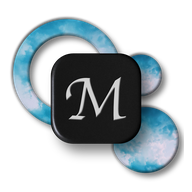
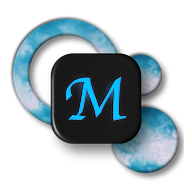
feat: implement touch scroll locking for PWA and enhance CSS for better mobile experience

Changed region(s): [[0.3438, 0.375, 0.6562, 0.625]]

diff --git a/app.js b/app.js
@@ -1358,6 +1358,31 @@
         }
 
         /* ============================================================
+           [EN] Lock body scroll on touch devices (PWA)
+               Allow scroll only inside scrollable containers
+           ============================================================ */
+        document.addEventListener('touchmove', function(e) {
+            /* [EN] Find the closest scrollable ancestor, if any */
+            var el = e.target;
+            while (el && el !== document.body) {
+                var style = window.getComputedStyle(el);
+                var overflowY = style.overflowY;
+                var isScrollable = (
+                    overflowY === 'auto' ||
+                    overflowY === 'scroll' ||
+                    overflowY === 'overlay'
+                );
+                if (isScrollable && el.scrollHeight > el.clientHeight) {
+                    /* [EN] Container is scrollable — let the event through */
+                    return;
+                }
+                el = el.parentElement;
+            }
+            /* [EN] No scrollable container found — block the scroll */
+            e.preventDefault();
+        }, { passive: false });
+
+        /* ============================================================
            [EN] Handle canvas resize for HiDPI
            ============================================================ */
         function handleCanvasResize() {

diff --git a/styles.css b/styles.css
@@ -41,7 +41,9 @@
             -webkit-text-size-adjust: 100%;
             text-size-adjust: 100%;
             -webkit-tap-highlight-color: transparent;
+            /* [EN] Lock html scroll — all scroll goes through <main> or drawer */
             height: 100%;
+            overflow: hidden;
         }
 
         body {
@@ -49,8 +51,10 @@
             background: var(--bg);
             color: var(--text);
             line-height: 1.5;
+            /* [EN] Fixed height so flex children can overflow properly */
+            height: 100%;
+            height: 100dvh;
             min-height: 100%;
-            min-height: 100dvh;
             display: flex;
             flex-direction: column;
             padding-bottom: calc(16px + var(--safe-bottom));
@@ -58,6 +62,10 @@
             -moz-osx-font-smoothing: grayscale;
             /* [EN] Prevent pull-to-refresh on PWA */
             overscroll-behavior-y: contain;
+            /* [EN] BLOCK ZOOM & ACCIDENTAL SCROLL — PWA on mobile */
+            overflow: hidden;
+            touch-action: manipulation;
+            -webkit-overflow-scrolling: auto;
         }
 
         /* ============================================================
@@ -213,10 +221,18 @@
            ============================================================ */
         .panels {
             flex: 1;
+            /* [EN] Crucial: allow flex child to shrink below content size for overflow to activate */
+            min-height: 0;
             padding: 12px;
             max-width: 600px;
             width: 100%;
             margin: 0 auto;
+            /* [EN] Allow vertical scroll inside panels (long engineering form) */
+            overflow-y: auto;
+            overscroll-behavior-y: contain;
+            -webkit-overflow-scrolling: touch;
+            /* [EN] Override body's touch-action:manipulation to allow vertical pan */
+            touch-action: pan-y;
         }
         .panel {
             display: none;
@@ -490,6 +506,8 @@
             overflow-y: auto;
             -webkit-overflow-scrolling: touch;
             overscroll-behavior: contain;
+            /* [EN] Explicitly allow touch pan inside drawer */
+            touch-action: pan-y;
         }
         .history-item {
             padding: 10px 12px;
@@ -730,6 +748,8 @@
             line-height: 1.6;
             max-height: 180px;
             overflow-y: auto;
+            /* [EN] Override body's touch-action:manipulation to allow vertical pan */
+            touch-action: pan-y;
         }
 
         /* ============================================================

diff --git a/index.html b/index.html
@@ -2,7 +2,7 @@
 <html lang="pl">
 <head>
     <meta charset="UTF-8">
-    <meta name="viewport" content="width=device-width, initial-scale=1.0, viewport-fit=cover">
+    <meta name="viewport" content="width=device-width, initial-scale=1.0, maximum-scale=1.0, user-scalable=no, viewport-fit=cover">
     <meta name="apple-mobile-web-app-capable" content="yes">
     <meta name="apple-mobile-web-app-status-bar-style" content="black-translucent">
     <meta name="apple-mobile-web-app-title" content="Kalkulator Matm0">